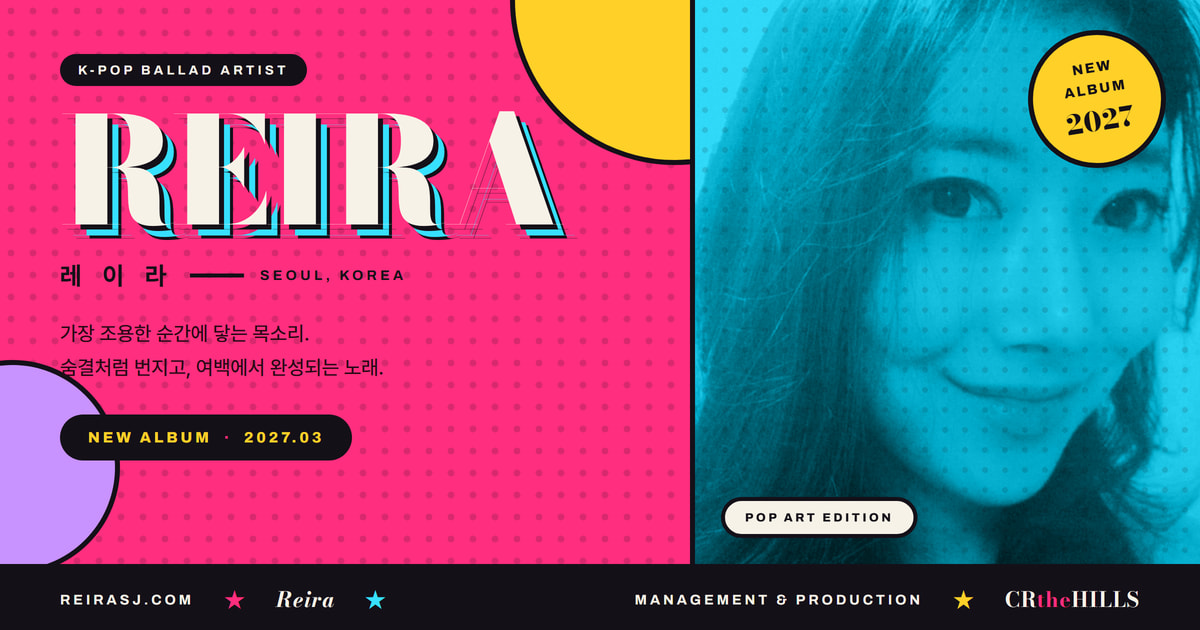
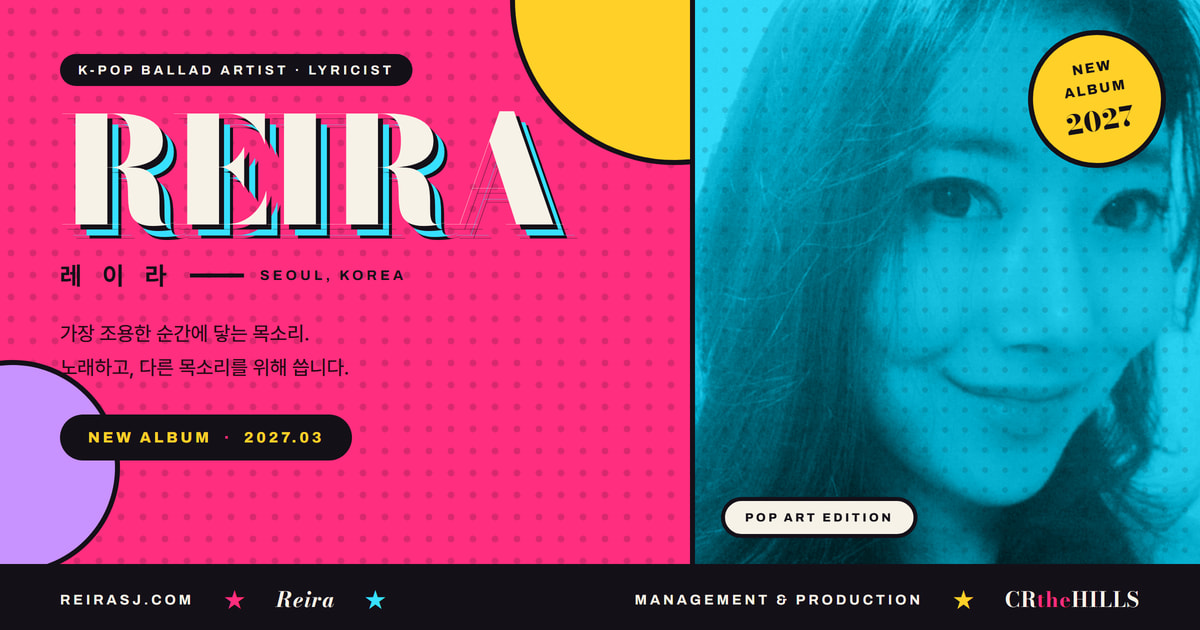
Take the lyricist revision of the page, and let the metadata carry it
The final export adds a credits block: REIRA writes for other artists —
Kim Hyun Joong, VROMANCE, OYEON, Lee Young Hyun, B.A.P — and the hero
kicker and the About tags now say so. The re-export mints fresh uuids for
byte-identical assets, so the new bundle's files were matched to the ones
already here by content hash; every asset hashed the same and the body is
now identical to the export, byte for byte.

Carry the change past the markup. The title, description and unfurl copy
called her a ballad artist and stopped there, which undersells a catalogue
someone might actually be searching for. The JSON-LD becomes a @graph: one
node for REIRA, typed as both Person and MusicGroup because a solo act is
genuinely both, and a MusicComposition per credit pointing its lyricist
back at her @id — the shape that lets a crawler connect her name to those
six songs instead of just reading them as decorative text.

Changed region(s): [[0.2467, 0.0603, 0.37, 0.1508], [0.0308, 0.573, 0.3392, 0.6032]]

diff --git a/index.html b/index.html
@@ -3,8 +3,8 @@
 <meta charset="utf-8">
 <meta name="viewport" content="width=device-width, initial-scale=1">
 
-<title>REIRA 레이라 — K-POP Ballad Artist | CRtheHILLS</title>
-<meta name="description" content="K-POP 발라드 아티스트 REIRA(레이라) 공식 사이트. 2027년 3월 신보 발매 기획중. Management &amp; Production: CRtheHILLS.">
+<title>REIRA 레이라 — K-POP Ballad Artist &amp; Lyricist | CRtheHILLS</title>
+<meta name="description" content="K-POP 발라드 아티스트 겸 작사가 REIRA(레이라) 공식 사이트. 김현중·브로맨스·B.A.P 등 작사 참여. 2027년 3월 신보 발매 기획중. Management &amp; Production: CRtheHILLS.">
 <meta name="theme-color" content="#141018">
 <link rel="canonical" href="https://reirasj.com/">
 <link rel="icon" href="./assets/img/favicon.svg" type="image/svg+xml">
@@ -18,7 +18,7 @@
 <meta property="og:site_name" content="REIRA">
 <meta property="og:locale" content="ko_KR">
 <meta property="og:url" content="https://reirasj.com/">
-<meta property="og:title" content="REIRA 레이라 — K-POP Ballad Artist">
+<meta property="og:title" content="REIRA 레이라 — K-POP Ballad Artist &amp; Lyricist">
 <meta property="og:description" content="가장 조용한 순간에 닿는 목소리. 숨결처럼 번지고, 여백에서 완성되는 노래. NEW ALBUM 2027.03">
 <meta property="og:image" content="https://reirasj.com/assets/img/og-cover.jpg">
 <meta property="og:image:secure_url" content="https://reirasj.com/assets/img/og-cover.jpg">
@@ -27,7 +27,7 @@
 <meta property="og:image:height" content="630">
 <meta property="og:image:alt" content="REIRA 레이라 — K-POP 발라드 아티스트, 2027년 3월 신보">
 <meta name="twitter:card" content="summary_large_image">
-<meta name="twitter:title" content="REIRA 레이라 — K-POP Ballad Artist">
+<meta name="twitter:title" content="REIRA 레이라 — K-POP Ballad Artist &amp; Lyricist">
 <meta name="twitter:description" content="가장 조용한 순간에 닿는 목소리. 숨결처럼 번지고, 여백에서 완성되는 노래. NEW ALBUM 2027.03">
 <meta name="twitter:image" content="https://reirasj.com/assets/img/og-cover.jpg">
 <meta name="twitter:image:alt" content="REIRA 레이라 — K-POP 발라드 아티스트, 2027년 3월 신보">
@@ -35,15 +35,81 @@
 <script type="application/ld+json">
 {
   "@context": "https://schema.org",
-  "@type": "MusicGroup",
-  "name": "REIRA",
-  "alternateName": "레이라",
-  "genre": "K-Pop Ballad",
-  "url": "https://reirasj.com/",
-  "image": "https://reirasj.com/assets/img/reira-hero.jpg",
-  "email": "5080happyai@gmail.com",
-  "foundingLocation": { "@type": "Place", "name": "Seoul, Korea" },
-  "manager": { "@type": "Organization", "name": "CRtheHILLS" }
+  "@graph": [
+    {
+      "@type": ["Person", "MusicGroup"],
+      "@id": "https://reirasj.com/#reira",
+      "name": "REIRA",
+      "alternateName": "레이라",
+      "jobTitle": ["Singer", "Lyricist"],
+      "genre": "K-Pop Ballad",
+      "url": "https://reirasj.com/",
+      "image": "https://reirasj.com/assets/img/reira-hero.jpg",
+      "email": "5080happyai@gmail.com",
+      "homeLocation": { "@type": "Place", "name": "Seoul, Korea" },
+      "worksFor": { "@type": "Organization", "name": "CRtheHILLS" }
+    },
+    {
+      "@type": "MusicComposition",
+      "name": "나는 네 남자야",
+      "alternateName": "I'm Your Man",
+      "lyricist": { "@id": "https://reirasj.com/#reira" },
+      "recordedAs": {
+        "@type": "MusicRecording",
+        "byArtist": { "@type": "MusicGroup", "name": "김현중 (KIM HYUN JOONG)" }
+      }
+    },
+    {
+      "@type": "MusicComposition",
+      "name": "나 살아있는 건",
+      "alternateName": "Alive",
+      "lyricist": { "@id": "https://reirasj.com/#reira" },
+      "recordedAs": {
+        "@type": "MusicRecording",
+        "byArtist": { "@type": "MusicGroup", "name": "김현중 (KIM HYUN JOONG)" }
+      }
+    },
+    {
+      "@type": "MusicComposition",
+      "name": "오래된 연인들",
+      "alternateName": "Old Lovers",
+      "lyricist": { "@id": "https://reirasj.com/#reira" },
+      "recordedAs": {
+        "@type": "MusicRecording",
+        "byArtist": { "@type": "MusicGroup", "name": "브로맨스 (VROMANCE)" }
+      }
+    },
+    {
+      "@type": "MusicComposition",
+      "name": "잘 먹고 잘 살아라",
+      "alternateName": "Live Well",
+      "lyricist": { "@id": "https://reirasj.com/#reira" },
+      "recordedAs": {
+        "@type": "MusicRecording",
+        "byArtist": { "@type": "MusicGroup", "name": "오연 (OYEON)" }
+      }
+    },
+    {
+      "@type": "MusicComposition",
+      "name": "중독",
+      "alternateName": "Addiction",
+      "lyricist": { "@id": "https://reirasj.com/#reira" },
+      "recordedAs": {
+        "@type": "MusicRecording",
+        "byArtist": { "@type": "MusicGroup", "name": "이영현 (LEE YOUNG HYUN)" }
+      }
+    },
+    {
+      "@type": "MusicComposition",
+      "name": "FERMATA",
+      "alternateName": "페르마타",
+      "lyricist": { "@id": "https://reirasj.com/#reira" },
+      "recordedAs": {
+        "@type": "MusicRecording",
+        "byArtist": { "@type": "MusicGroup", "name": "B.A.P" }
+      }
+    }
+  ]
 }
 </script>
 
@@ -456,7 +522,7 @@ a:hover{color:#FF2E7E;}
       <div style="position:absolute;right:-90px;top:-90px;width:320px;height:320px;border-radius:9999px;background:#FFD028;border:3px solid #141018;"></div>
       <div style="position:absolute;left:-70px;bottom:-80px;width:220px;height:220px;border-radius:9999px;background:#37E0FF;border:3px solid #141018;"></div>
       <div style="position:relative;z-index:2;">
-        <div style="display:inline-flex;padding:7px 14px;background:#141018;color:#F7F2E7;border-radius:9999px;font-size:10px;font-weight:600;letter-spacing:0.26em;margin-bottom:24px;">K-POP BALLAD ARTIST</div>
+        <div style="display:inline-flex;padding:7px 14px;background:#141018;color:#F7F2E7;border-radius:9999px;font-size:10px;font-weight:600;letter-spacing:0.26em;margin-bottom:24px;">K-POP BALLAD ARTIST · LYRICIST</div>
         <h1 style="margin:0;font-family:'Bodoni Moda',serif;font-weight:900;font-size:clamp(72px,10.5vw,168px);line-height:0.82;letter-spacing:-0.035em;color:#F7F2E7;text-shadow:5px 5px 0 #141018;animation:upIn 900ms cubic-bezier(.16,.84,.44,1) both;">REIRA</h1>
         <div style="margin-top:22px;display:flex;align-items:center;gap:14px;flex-wrap:wrap;">
           <span style="font-family:'Pretendard',sans-serif;font-weight:600;font-size:16px;letter-spacing:0.3em;color:#141018;">레 이 라</span>
@@ -532,8 +598,42 @@ a:hover{color:#FF2E7E;}
         <div style="display:flex;flex-wrap:wrap;gap:10px;">
           <span style="padding:10px 18px;background:#F7F2E7;border:3px solid #141018;border-radius:9999px;font-size:11px;font-weight:700;letter-spacing:0.18em;">BALLAD</span>
           <span style="padding:10px 18px;background:#FF2E7E;border:3px solid #141018;border-radius:9999px;font-size:11px;font-weight:700;letter-spacing:0.18em;">VOCAL</span>
-          <span style="padding:10px 18px;background:#37E0FF;border:3px solid #141018;border-radius:9999px;font-size:11px;font-weight:700;letter-spacing:0.18em;">SONGWRITING</span>
+          <span style="padding:10px 18px;background:#37E0FF;border:3px solid #141018;border-radius:9999px;font-size:11px;font-weight:700;letter-spacing:0.18em;">LYRICIST</span>
           <span style="padding:10px 18px;background:#C892FF;border:3px solid #141018;border-radius:9999px;font-size:11px;font-weight:700;letter-spacing:0.18em;">SEOUL</span>
+        </div>
+      </div>
+    </div>
+
+    <div style="margin-top:clamp(56px,7vw,100px);background:#F7F2E7;border:3px solid #141018;padding:clamp(28px,4vw,54px) clamp(22px,3vw,48px);">
+      <div style="display:flex;align-items:baseline;justify-content:space-between;gap:20px;flex-wrap:wrap;margin-bottom:8px;">
+        <h3 style="margin:0;font-family:'Bodoni Moda',serif;font-weight:800;font-size:clamp(28px,3.6vw,54px);line-height:1.05;letter-spacing:-0.025em;color:#141018;">Also a <span style="font-style:italic;color:#FF2E7E;">lyricist</span></h3>
+        <span style="font-size:11px;font-weight:700;letter-spacing:0.24em;color:#6B6270;">SELECTED CREDITS</span>
+      </div>
+      <p style="margin:0 0 30px;max-width:640px;font-family:'Pretendard',sans-serif;font-size:15px;line-height:1.95;color:#3B3440;text-wrap:pretty;">무대 위에서는 노래하고, 무대 밖에서는 다른 목소리를 위한 문장을 씁니다. 여러 아티스트의 곡에 가사를 남긴 작사가이기도 합니다.<br><span style="font-family:'Archivo',sans-serif;font-size:13.5px;color:#6B6270;">She sings — and she writes for others. A songwriter credited across a range of K-pop releases.</span></p>
+      <div style="display:grid;grid-template-columns:repeat(auto-fit,minmax(min(100%,260px),1fr));gap:0;border:3px solid #141018;background:#141018;">
+        <div style="background:#FFD028;padding:22px 20px;">
+          <div style="font-family:'Bodoni Moda',serif;font-weight:800;font-size:22px;line-height:1.2;color:#141018;">나는 네 남자야</div>
+          <div style="margin-top:6px;font-size:12px;font-weight:600;letter-spacing:0.14em;color:#3B3222;">I'M YOUR MAN — 김현중 KIM HYUN JOONG</div>
+        </div>
+        <div style="background:#FF2E7E;padding:22px 20px;">
+          <div style="font-family:'Bodoni Moda',serif;font-weight:800;font-size:22px;line-height:1.2;color:#F7F2E7;">나 살아있는 건</div>
+          <div style="margin-top:6px;font-size:12px;font-weight:600;letter-spacing:0.14em;color:#2A0A18;">ALIVE — 김현중 KIM HYUN JOONG</div>
+        </div>
+        <div style="background:#37E0FF;padding:22px 20px;">
+          <div style="font-family:'Bodoni Moda',serif;font-weight:800;font-size:22px;line-height:1.2;color:#141018;">오래된 연인들</div>
+          <div style="margin-top:6px;font-size:12px;font-weight:600;letter-spacing:0.14em;color:#0B2A33;">OLD LOVERS — 브로맨스 VROMANCE</div>
+        </div>
+        <div style="background:#C892FF;padding:22px 20px;">
+          <div style="font-family:'Bodoni Moda',serif;font-weight:800;font-size:22px;line-height:1.2;color:#141018;">잘 먹고 잘 살아라</div>
+          <div style="margin-top:6px;font-size:12px;font-weight:600;letter-spacing:0.14em;color:#2A1A3B;">LIVE WELL — 오연 OYEON</div>
+        </div>
+        <div style="background:#0F3BFF;padding:22px 20px;">
+          <div style="font-family:'Bodoni Moda',serif;font-weight:800;font-size:22px;line-height:1.2;color:#F7F2E7;">중독</div>
+          <div style="margin-top:6px;font-size:12px;font-weight:600;letter-spacing:0.14em;color:#B9C6FF;">ADDICTION — 이영현 LEE YOUNG HYUN</div>
+        </div>
+        <div style="background:#141018;padding:22px 20px;">
+          <div style="font-family:'Bodoni Moda',serif;font-weight:800;font-size:22px;line-height:1.2;color:#F7F2E7;">FERMATA</div>
+          <div style="margin-top:6px;font-size:12px;font-weight:600;letter-spacing:0.14em;color:#8A8290;">페르마타 — B.A.P</div>
         </div>
       </div>
     </div>

diff --git a/tools/og-card.html b/tools/og-card.html
@@ -216,14 +216,14 @@
     <div class="blob-violet"></div>
 
     <div class="left-inner">
-      <span class="kicker">K-POP BALLAD ARTIST</span>
+      <span class="kicker">K-POP BALLAD ARTIST · LYRICIST</span>
       <div class="wordmark">REIRA</div>
       <div class="hangul-row">
         <span class="hangul">레 이 라</span>
         <span class="rule"></span>
         <span class="place">SEOUL, KOREA</span>
       </div>
-      <p class="tagline">가장 조용한 순간에 닿는 목소리.<br>숨결처럼 번지고, 여백에서 완성되는 노래.</p>
+      <p class="tagline">가장 조용한 순간에 닿는 목소리.<br>노래하고, 다른 목소리를 위해 씁니다.</p>
       <span class="album">NEW ALBUM <span class="dot">·</span> 2027.03</span>
     </div>
   </div>
